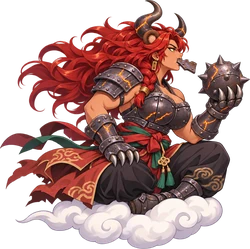
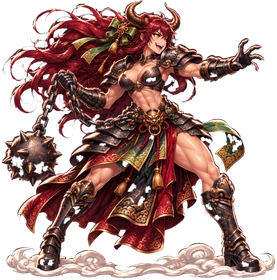
불가사리: 원본 달빛 극화체 교체, 각성 「쇠공」
Claude-Session: https://claude.ai/code/session_01X3WCR5Skc58i6ujNZho15h

diff --git a/game/geumeum/dokkaebi-shooter.html b/game/geumeum/dokkaebi-shooter.html
@@ -879,7 +879,7 @@ const FONT = '"Black Han Sans","Apple SD Gothic Neo","Malgun Gothic",sans-serif'
 const IMG = {};
 for (const n of ['hp0', 'hp1', 'hp2n', 'hp2s', 'hc2n', 'hc2s', 'mh0', 'mh1', 'mh2', 'mh3', 'mh4', 'mh5', 'mh6', 'mh7', 'mh8', 'mh9', 'mw_wisp', 'mw_kite', 'mw_drum', 'mw_jar', 'mw_lantern', 'mw_dasher', 'mw_carp', 'mw_fox', 'f3_wisp', 'f3_kite', 'f3_dasher', 'f4_wisp', 'f4_kite', 'f4_dasher', 'f5_wisp', 'f5_kite', 'f5_dasher', 'f6_wisp', 'f6_kite', 'f6_dasher', 'f7_wisp', 'f7_kite', 'f7_dasher', 'f8_wisp', 'f8_kite', 'f8_dasher', 'f9_wisp', 'f9_kite', 'f9_dasher', 'wisp', 'kite', 'drum', 'jar', 'lantern', 'dasher', 'bz0c', 'bz0d', 'bz1a', 'bz8b', 'fg0', 'mini0a', 'mini0b', 'mini0c', 'mid0a', 'mid0b', 'p3', 'cut3x', 'p4', 'cut4x', 'carp', 'mini1a', 'mini1b', 'mini1c', 'mid1a', 'mid1b', 'bz1b', 'fg1', 'ironfx', 'p5', 'cut5x', 'fox', 'mini2a', 'mini2c', 'mid2a', 'boss3', 'bz2b', 'fg3', 'ch3', 'ch5', 'ch6', 'ch7', 'ch8', 'ch9', 'ch10', 'ch11', 'ch12', 'p6','cut6x','p7b','cut7x','p8b','cut8x','p9b','cut9x','p10','cut10x','p11b','cut11x','p12','cut12x','zk3','mini3a','mini3b','mini3c','mid3a','mid3b','bossH3','bz3b','zk4','mini4a','mini4b','mini4c','mid4a','mid4b','bossH4','bz4b','zk5','mini5a','mini5b','mini5c','mid5a','mid5b','bossH5','bz5b','zk6','mini6a','mini6b','mini6c','mid6a','mid6b','bossH6','bz6b','zk7','mini7a','mini7b','mini7c','mid7a','mid7b','bossH7','bz7b','zk8','mini8a','mini8b','mini8c','mid8a','mid8b','bossH8','zk9','mini9a','mini9b','mini9c','mid9a','mid9b','bossH9','bz9b', 'hc0x', 'hp1_o0', 'hc1_o0', 'hc1w', 'forgeAnvil', 'forgeHammer', 'chestC', 'chestG', 'chestE', 'tornado', 'arrowfx', 'hammerfx', 'talisman']) { const im = new Image(); im.src = 'assets/' + n + '.webp'; IMG[n] = im; }
 { const im = new Image(); im.src = 'assets/ch12m.webp'; IMG.ch12 = im; }
-for (const n of ['p13', 'p14', 'p15', 'p16', 'p17', 'p18', 'p19', 'p20', 'p21', 'p22', 'aw0p', 'aw1p', 'aw2p', 'aw1', 'aw2', 'aw5', 'aw5p', 'aw6', 'aw6p', 'aw7', 'aw7p', 'aw12', 'aw12p', 'aw14', 'aw14p', 'aw15', 'aw15p', 'aw17', 'aw17p', 'aw18', 'aw18p', 'aw21', 'aw21p', 'aw13', 'aw13p', 'rp_book', 'aw16', 'aw16p', 'aw19', 'aw19p', 'aw20', 'aw20p', 'cy_m0', 'cy_m1', 'cy_m2', 'cy_m3', 'aw22', 'aw22p', 'aw3', 'aw3p', 'dl_sword']) { const im = new Image(); im.src = 'assets/' + n + '.webp'; IMG[n] = im; } // 기획 15·17 새 그림도 처음부터 불러 둠
+for (const n of ['p13', 'p14', 'p15', 'p16', 'p17', 'p18', 'p19', 'p20', 'p21', 'p22', 'aw0p', 'aw1p', 'aw2p', 'aw1', 'aw2', 'aw5', 'aw5p', 'aw6', 'aw6p', 'aw7', 'aw7p', 'aw12', 'aw12p', 'aw14', 'aw14p', 'aw15', 'aw15p', 'aw17', 'aw17p', 'aw18', 'aw18p', 'aw21', 'aw21p', 'aw13', 'aw13p', 'rp_book', 'aw16', 'aw16p', 'aw19', 'aw19p', 'aw20', 'aw20p', 'cy_m0', 'cy_m1', 'cy_m2', 'cy_m3', 'aw22', 'aw22p', 'aw3', 'aw3p', 'aw4', 'dl_sword']) { const im = new Image(); im.src = 'assets/' + n + '.webp'; IMG[n] = im; } // 기획 15·17 새 그림도 처음부터 불러 둠
 { const im = new Image(); im.src = 'assets/tower10.webp'; IMG.tower10 = im; } // 층 시작 때 보여 주는 탑 그림 // 여왕의 기: 달 구슬(새 그림)
 for (const n of ['bg0', 'bg1', 'bg2', 'bg3', 'bgS4', 'bgS5', 'bgS6', 'bgS7', 'bgS8', 'bgS10', 'bg0h', 'bg1h', 'bg2h', 'bg3h', 'bgS4h', 'bgS5h', 'bgS6h', 'bgS7h', 'bgS8h', 'bgS10h']) { const im = new Image(); im.src = 'assets/' + n + '.jpg'; IMG[n] = im; }
 const ok = im => im && im.complete && im.naturalWidth > 0;
@@ -3428,7 +3428,7 @@ function drawElite() { for (const e of enemies) { if (!e.elite || e.dead || e.x 
   else { $('btnHome').textContent = '돌아가기'; if (p === 2 && !G.endless && G.floor.st.length === 3) { const sum = G.floor.st.reduce((x, y) => x + (y || 0), 0); $('resName').textContent = (G.stage + 1) + '층 돌파' + (G.diff ? ' ' + DN[G.diff] : ''); $('resText').innerHTML = '이번 층 별 <b>' + sum + ' / 9</b> · 이번 층 골드 <b class="gold">+' + G.floor.gold.toLocaleString() + '</b> · 가진 골드 <b class="gold">' + SAVE.gold.toLocaleString() + '</b>'; } } }; }
 $('btnRestYk').addEventListener('click', () => openYk());
 /* ---------- 기획 16-4: 각성 연출 — 멈춤 → 각성 일러스트 전신 → 얼굴·무기 쪽으로 천천히 확대 → 대사 띠 → 각성 8초 ---------- */
-const AWK = { dur: 1.2, dark: 0.15, inT: 0.2, zoom: 1.0, zoomCh: {}, /* 기획 17: 확대 없앰, 화면 가득 1.2초 */ img: { 0: 'aw0', 1: 'aw1', 2: 'aw2', 3: 'aw3', 5: 'aw5', 6: 'aw6', 7: 'aw7', 12: 'aw12', 13: 'aw13', 14: 'aw14', 15: 'aw15', 16: 'aw16', 17: 'aw17', 18: 'aw18', 19: 'aw19', 20: 'aw20', 21: 'aw21', 22: 'aw22' },
+const AWK = { dur: 1.2, dark: 0.15, inT: 0.2, zoom: 1.0, zoomCh: {}, /* 기획 17: 확대 없앰, 화면 가득 1.2초 */ img: { 0: 'aw0', 1: 'aw1', 2: 'aw2', 3: 'aw3', 4: 'aw4', 5: 'aw5', 6: 'aw6', 7: 'aw7', 12: 'aw12', 13: 'aw13', 14: 'aw14', 15: 'aw15', 16: 'aw16', 17: 'aw17', 18: 'aw18', 19: 'aw19', 20: 'aw20', 21: 'aw21', 22: 'aw22' },
   focus: { 0: [0.62, 0.18], 1: [0.76, 0.24], 2: [0.62, 0.13] }, // 확대 중심(그림 비율): 얼굴과 무기·손의 빛 사이. 15세 기준 — 몸 쪽으로는 확대하지 않음
   line: ['바람아, 달빛을 실어 와라!', '활은 접어 둘게. 이제 베러 간다!', '은하수의 창이여, 깨어나라!', '탈 속 도깨비불이 춤춘다!', '쇠도 먹고 달도 먹는다!', '아홉 꼬리에 달빛이 깃든다!', '장승의 이름으로 막아 서라!', '눈보라야, 모두 얼어붙어라!', '천 년 묵은 비늘이 깨어난다!', '용궁의 물결이여, 일어나라!', '쇠망치에 달을 벼린다!', '어둠이 나의 그림자다!', '뚝딱! 달빛이 쏟아진다!'] };
 for (const k of Object.values(AWK.img)) needImg(k);
@@ -3734,7 +3734,7 @@ function dlMark(e) { const D = G.dl; if (!D) return; if (e.st) delete e.st.mark;
 function dlEnd() { const D = G.dl; if (!D) return; const y = P.y; D.sw = []; fx2({ k: 'hline', y, d: 0.45, col: '#ff3a5a' }); G.shake = 0.5; G.flash = Math.max(G.flash, 0.3); banner('…다시, 활로.', '', 1);
   withSrc('awk', () => { for (const e of inFront(P.x, W + 20, y, 40)) hitEl(e, AWK_DL.finalArrow, 'mark', { pen: 1 }); for (const e of enemies) if (!e.dead && e.st && e.st.mark > 0) dlMark(e); }); tone(392, 0.4, 'triangle', 0.08, 200); }
 // 그리기: 칼바람(진홍 반달), 칼 회전, 돌진 잔상, 갈라지는 0.3초, 벨 때 앞으로 튀어나감
-{ const a = drawShot; drawShot = function (s) { if (s.snw) return drawSnw(s); if (s.jsw) return drawJsw(s); if (s.qcw) return drawQcw(s); if (s.bpw) return drawBpw(s); if (s.htw) return drawHtw(s); if (s.ubw) return drawUbw(s); if (s.upw) return drawUpw(s); if (s.jxw) return drawJxw(s); if (s.mpw) return drawMpw(s); if (s.ssw) return drawSsw(s); if (s.hbw) return drawHbw(s); if (s.rpw) return drawRpw(s); if (s.hgw) return drawHgw(s); if (s.sgw) return drawSgw(s); if (s.cyw) return drawCyw(s); if (s.krw) return drawKrw(s); if (s.tdw) return drawTdw(s); if (!s.dlw) return a(s); ctx.save(); ctx.translate(s.x, s.y); ctx.rotate(Math.atan2(s.vy, s.vx)); ctx.globalCompositeOperation = 'lighter'; ctx.strokeStyle = 'rgba(255,60,90,.9)'; ctx.lineWidth = 5; ctx.beginPath(); ctx.arc(-8, 0, 18, -1.2, 1.2); ctx.stroke(); ctx.strokeStyle = 'rgba(255,200,210,.9)'; ctx.lineWidth = 2; ctx.beginPath(); ctx.arc(-6, 0, 17, -1.0, 1.0); ctx.stroke(); ctx.restore(); }; }
+{ const a = drawShot; drawShot = function (s) { if (s.snw) return drawSnw(s); if (s.jsw) return drawJsw(s); if (s.qcw) return drawQcw(s); if (s.bpw) return drawBpw(s); if (s.htw) return drawHtw(s); if (s.ubw) return drawUbw(s); if (s.upw) return drawUpw(s); if (s.jxw) return drawJxw(s); if (s.mpw) return drawMpw(s); if (s.ssw) return drawSsw(s); if (s.hbw) return drawHbw(s); if (s.rpw) return drawRpw(s); if (s.hgw) return drawHgw(s); if (s.sgw) return drawSgw(s); if (s.cyw) return drawCyw(s); if (s.krw) return drawKrw(s); if (s.tdw) return drawTdw(s); if (s.bgw) return drawBgw(s); if (!s.dlw) return a(s); ctx.save(); ctx.translate(s.x, s.y); ctx.rotate(Math.atan2(s.vy, s.vx)); ctx.globalCompositeOperation = 'lighter'; ctx.strokeStyle = 'rgba(255,60,90,.9)'; ctx.lineWidth = 5; ctx.beginPath(); ctx.arc(-8, 0, 18, -1.2, 1.2); ctx.stroke(); ctx.strokeStyle = 'rgba(255,200,210,.9)'; ctx.lineWidth = 2; ctx.beginPath(); ctx.arc(-6, 0, 17, -1.0, 1.0); ctx.stroke(); ctx.restore(); }; }
 function drawDl() { const D = G.dl; if (!D || G.mode !== 'play') return; const im = IMG.dl_sword;
   for (const s of D.sw) { ctx.save(); ctx.translate(s.x, s.y); ctx.rotate(s.a); ctx.globalCompositeOperation = 'lighter'; glow('red', 0, 0, 30, 0.5); ctx.globalCompositeOperation = 'source-over'; if (ok(im)) ctx.drawImage(im, -36, -11.5, 72, 23); ctx.restore(); }
   const ds = D.dash; if (ds) { const tr = ds.trail; for (let i = 0; i < 3; i++) { const q = tr[Math.floor(tr.length * (i + 1) / 4)]; if (q) spr(AWK2.spr[1], q.x, q.y, CH[1].h * SZ.p * FUN2.awakeScale, { add: 1, alpha: 0.25 }); } if (!ds.scar && ds.t > AWK_DL.dashTime) { ctx.save(); ctx.strokeStyle = 'rgba(255,40,70,.8)'; ctx.lineWidth = 3; ctx.beginPath(); ctx.moveTo(ds.x0, ds.y - 10); ctx.lineTo(W, ds.y + 10); ctx.moveTo(ds.x0, ds.y + 10); ctx.lineTo(W, ds.y - 10); ctx.stroke(); ctx.restore(); } }
@@ -4192,6 +4192,29 @@ function drawTd() { const M = G.td; if (!M || G.mode !== 'play') return; ctx.sav
   if (M.split > 0 && M.split < 0.3) { const k = 1 - M.split / 0.3; glow('fire', P.x + 20, P.y, 20 + 60 * k, 1 - k); }
   ctx.restore(); }
 { const a = drawWpFx; drawWpFx = function () { a(); drawTd(); }; }
+/* ---------- 불가사리 각성 「쇠공」 (기획 20 불가사리 행) — 쇠공 둘 번갈아 던지기(무겁고 느림)·다가오는 탄 먹어 체력·쇠사슬 회전·끝 큰 쇠공 굴리기 ---------- */
+const AWK_BG = { gap: 0.42, sp: 330, dmg: 6, r: 13, eatR: 46, eatHeal: 0.5, eatMax: 3, spinR: 95, spinT: 1.2, spinTick: 0.2, spinDmg: 3.5, endSp: 300, endR: 60, endDmg: 24, col: '#c8a080' };
+const bgOn = () => G.awake > 0 && P.ch === 4 && G.mode === 'play';
+{ const a = fire; fire = function () { const n0 = shots.length; a(); if (bgOn()) shots.splice(n0); }; }
+function bgBall(x, y, r, a) { ctx.save(); ctx.translate(x, y); ctx.rotate(a || 0); ctx.fillStyle = '#3a3634'; for (let i = 0; i < 8; i++) { const an = i * TAU / 8; ctx.beginPath(); ctx.moveTo(Math.cos(an - 0.18) * r, Math.sin(an - 0.18) * r); ctx.lineTo(Math.cos(an) * r * 1.45, Math.sin(an) * r * 1.45); ctx.lineTo(Math.cos(an + 0.18) * r, Math.sin(an + 0.18) * r); ctx.fill(); } const g = ctx.createRadialGradient(-r * 0.35, -r * 0.35, r * 0.1, 0, 0, r); g.addColorStop(0, '#8a8480'); g.addColorStop(1, '#2a2624'); ctx.fillStyle = g; ctx.beginPath(); ctx.arc(0, 0, r, 0, TAU); ctx.fill(); ctx.strokeStyle = 'rgba(255,140,60,.7)'; ctx.lineWidth = 1.2; ctx.beginPath(); ctx.moveTo(-r * 0.5, -r * 0.1); ctx.lineTo(0, r * 0.2); ctx.lineTo(r * 0.4, -r * 0.3); ctx.stroke(); ctx.restore(); }
+function drawBgw(s) { bgBall(s.x, s.y, s.r, s.t * 6); }
+function bgUpd(dt) { const M = G.bg = G.bg || { cd: 0, side: 1, eat: 0, fx: [] }; if (M.split > 0) M.split -= dt; for (const f of M.fx) f.t += dt; M.fx = M.fx.filter(f => f.t < f.T); M.eat = Math.max(0, M.eat - dt);
+  const S = M.spin; if (S) { S.t += dt; S.a += dt * 14; if ((S.nt -= dt) <= 0) { S.nt = AWK_BG.spinTick; withSrc('sk', () => { for (const e of enemies) if (!e.dead && Math.hypot(e.x - P.x, e.y - P.y) < AWK_BG.spinR + e.r * 0.5) hitEl(e, AWK_BG.spinDmg, null); }); } bullets = bullets.filter(b => Math.hypot(b.x - P.x, b.y - P.y) > AWK_BG.spinR); if (S.t > AWK_BG.spinT) M.spin = null; }
+  const E = M.end; if (E) { E.x += AWK_BG.endSp * dt; E.a += dt * 8; bullets = bullets.filter(b => Math.hypot(b.x - E.x, b.y - E.y) > AWK_BG.endR + 6); withSrc('awk', () => { for (const e of enemies) if (!e.dead && !E.hit.has(e) && Math.hypot(e.x - E.x, e.y - E.y) < AWK_BG.endR + e.r * 0.6) { E.hit.set(e, 1); hitEl(e, AWK_BG.endDmg, null, { heavy: 1 }); burst(e.x, e.y, 12, '#ff9a50', 200); G.shake = Math.max(G.shake, 0.25); } }); if (E.x > W + 80) M.end = null; }
+  if (!bgOn()) return; const firing = keys.fire || touch.down || touch.auto;
+  let n = 0; bullets = bullets.filter(b => { if (n < AWK_BG.eatMax * 4 && Math.hypot(b.x - P.x, b.y - P.y) < AWK_BG.eatR) { n++; return false; } return true; }); if (n) { M.eatN = (M.eatN || 0) + n; const h = Math.floor(M.eatN * AWK_BG.eatHeal); if (h >= 1) { M.eatN -= h / AWK_BG.eatHeal; hpHeal(P.ch, h, true); } M.eat = 0.25; }
+  if (firing && (M.cd -= dt) <= 0) { M.cd = AWK_BG.gap; M.side = -M.side; withSrc('awk', () => ps(P.x + 24, P.y + M.side * 14, AWK_BG.sp, -M.side * 20, AWK_BG.r, AWK_BG.dmg, 20, { kc: 4, bgw: 1, pierce: 1, cd: 0.35, hit: new Map() })); tone(120, 0.12, 'square', 0.04, -20); } }
+{ const a = charSkill; charSkill = function (ch) { if (!(ch === 4 && bgOn())) return a(ch); G.bg.spin = { t: 0, nt: 0, a: 0 }; float('쇠사슬 회전!', P.x, P.y - 50, AWK_BG.col); tone(160, 0.4, 'sawtooth', 0.06, 120); }; }
+{ const a = awakeStart; awakeStart = function () { const was = G.awake > 0; a(); if (!was && G.awake > 0 && P.ch === 4) G.bg = { cd: 0, side: 1, eat: 0, fx: [], split: AWK.dur + 0.3 }; }; }
+{ const a = awakeUpd; awakeUpd = function (dt) { const was = G.awake > 0 && P.ch === 4; a(dt); if (G.mode === 'play') bgUpd(dt); if (was && !(G.awake > 0)) bgEnd(); }; }
+function bgEnd() { const M = G.bg = G.bg || { fx: [] }; M.spin = null; M.end = { x: P.x + 40, y: P.y, a: 0, hit: new Map() }; banner('큰 쇠공이 굴러간다!', '', 1); G.shake = 0.4; tone(70, 0.6, 'sawtooth', 0.09, 20); }
+function drawBg() { const M = G.bg; if (!M || G.mode !== 'play') return; ctx.save();
+  if (M.eat > 0) { ctx.globalCompositeOperation = 'lighter'; glow('orange', P.x + 10, P.y - 10, 30, M.eat * 3); ctx.globalCompositeOperation = 'source-over'; }
+  if (M.spin) { const S = M.spin; for (const s of [0, Math.PI]) { const bx = P.x + Math.cos(S.a + s) * AWK_BG.spinR * 0.85, by = P.y + Math.sin(S.a + s) * AWK_BG.spinR * 0.7; ctx.strokeStyle = '#8a8480'; ctx.lineWidth = 3; ctx.setLineDash([5, 3]); ctx.beginPath(); ctx.moveTo(P.x, P.y); ctx.lineTo(bx, by); ctx.stroke(); ctx.setLineDash([]); bgBall(bx, by, 14, S.a); } ctx.strokeStyle = 'rgba(255,170,90,.35)'; ctx.lineWidth = 2; ctx.beginPath(); ctx.ellipse(P.x, P.y, AWK_BG.spinR * 0.85, AWK_BG.spinR * 0.7, 0, 0, TAU); ctx.stroke(); }
+  if (M.end) { ctx.globalCompositeOperation = 'lighter'; glow('orange', M.end.x, M.end.y, AWK_BG.endR * 1.5, 0.6); ctx.globalCompositeOperation = 'source-over'; bgBall(M.end.x, M.end.y, AWK_BG.endR * 0.8, M.end.a); }
+  if (M.split > 0 && M.split < 0.3) { const k = 1 - M.split / 0.3; ctx.globalCompositeOperation = 'lighter'; glow('orange', P.x + 20, P.y, 20 + 60 * k, 1 - k); }
+  ctx.restore(); }
+{ const a = drawWpFx; drawWpFx = function () { a(); drawBg(); }; }
 /* ---------- 그믐의 맹세 (기획 8의 3): 스스로 고르는 어려움. 일반 층과 그믐의 탑 모두에 걸린다. 첫 결말 뒤에 열린다 ---------- */
 const OATHS = [ // [id, 이름, 최대 단계, 단계당 점수, 효과]
   ['hp', '단단한 요괴', 3, 1, '적 체력 +20%씩'],

diff --git a/game/geumeum/README.md b/game/geumeum/README.md
@@ -383,3 +383,10 @@
 - ② 보조: 푸른 도깨비불 셋이 둘레를 돌며 0.5초마다 따라가는 불탄.
 - ③ 스킬 불 춤: 불타는 방망이가 앞으로 굴러가며 닿는 적 피해·탄 제거(몸은 제자리).
 - ④ 끝: 방망이를 내려찍어 불기둥. 수치는 `AWK_TD`.
+
+### 불가사리 각성 「쇠공」 (캐릭터 4, 기획 20 불가사리 행)
+- 원본 `p4`·`cut4x` 달빛 극화체로 교체(스킨 `_s1`은 예전 그림 색바꿈 그대로). 각성 그림 `aw4`. 각성 몸 `aw4p`는 아직 없음(오면 `AWK2.spr[4]`). 몸 흔들기 없음. 각성 대사는 기존 「쇠도 먹고 달도 먹는다!」.
+- ① 자동: 쇠공을 위아래 번갈아 던짐(무겁고 느림, 꿰뚫음).
+- ② 보조: 몸 가까이 온 적 탄을 먹어 체력 회복(탄 2개당 1).
+- ③ 스킬: 쇠사슬 회전 1.2초(둘레 지속 피해·탄 제거).
+- ④ 끝: 큰 쇠공을 굴림. 수치는 `AWK_BG`.
